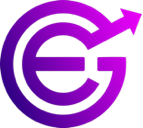
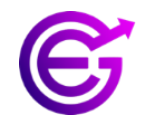
updated token images
fixed a few token images that were too large after swapping to Avatar images, and added EZI. Also added an error page for tokens or pairs with no volume.

diff --git a/pages/[symbol]/index.js b/pages/[symbol]/index.js
@@ -1,5 +1,5 @@
 import { useEffect, useState } from "react";
-import { Container, Grid } from "@nextui-org/react";
+import { Card, Container, Grid, Text } from "@nextui-org/react";
 
 import DexChart from "../../components/home/dex_chart";
 import BurnCard from "../../components/home/stats/burn";
@@ -16,6 +16,7 @@ import TokenList from "../../components/tokenlist";
 import Layout from "../../components/global/layout";
 import ErrorPage from 'next/error'
 import PageHeader from "../../components/global/header";
+import SvgIcon from "../../components/icons/SvgIcon";
 
 const tokens = require("../../tokens");
 
@@ -27,6 +28,7 @@ export default function TokenStats({ activeSymbol, err }) {
 
     const [stats, setStats] = useState(null);
     const [isLoading, setIsLoading] = useState(false);
+    const [hasData, setHasData] = useState(true);
 
     useEffect(async() => {
         await update();
@@ -34,6 +36,7 @@ export default function TokenStats({ activeSymbol, err }) {
 
     const update = async() => {
         setIsLoading(true);
+        
         let bnb      = Binance.getBnbPrice();
         let base_url = "https://api.dexscreener.io/latest/dex/tokens/";
         let request  = axios.get(base_url + tokens[activeSymbol].contract).then(res => res.data);
@@ -44,6 +47,9 @@ export default function TokenStats({ activeSymbol, err }) {
         let stats = await Promise.all([
             bnb, request, burned, supply, holders
         ]).then((values) => {
+            if (values[1].pairs.length == 0) {
+                setHasData(false);
+            }
             return {
                 bnb_value: values[0],
                 stats:  values[1].pairs[0],
@@ -71,34 +77,61 @@ export default function TokenStats({ activeSymbol, err }) {
                             isLoading={isLoading}
                             data={stats}/>
                     </Grid>
-                    <Grid xs={12} sm={4} md={4}>
-                        <PoolsCard 
-                            symbol={activeSymbol} 
-                            stats={stats}
-                            isLoading={isLoading}
-                            activeIndex={0}/>
-                    </Grid>
-                    <Grid xs={12} sm={4} md={4}>
-                        <PriceCard data={stats}/>
-                    </Grid>
-                    <Grid xs={12} sm={4} md={4}>
-                        <MarketCard data={stats}/>
-                    </Grid>
-                    <Grid xs={12} sm={4} md={4}>
-                        <BurnCard data={stats}/>
-                    </Grid>
-                    <Grid xs={12} sm={4} md={4}>
-                        <LiquidityCard data={stats}/>
-                    </Grid>
-                    <Grid xs={12} sm={4}>
-                        <VolumeCard data={stats}/>
-                    </Grid>
-                    <Grid xs={12}>
-                        <StrengthCard data={stats}/>
-                    </Grid>
-                    <Grid xs={12}>
-                        <DexChart data={stats}/>
-                    </Grid>
+                    { stats && stats.stats ? 
+                    <>
+                        <Grid xs={12} sm={4} md={4}>
+                            <PoolsCard 
+                                symbol={activeSymbol} 
+                                stats={stats}
+                                isLoading={isLoading}
+                                activeIndex={0}/>
+                        </Grid>
+                        <Grid xs={12} sm={4} md={4}>
+                            <PriceCard data={stats}/>
+                        </Grid>
+                        <Grid xs={12} sm={4} md={4}>
+                            <MarketCard data={stats}/>
+                        </Grid>
+                        <Grid xs={12} sm={4} md={4}>
+                            <BurnCard data={stats}/>
+                        </Grid>
+                        <Grid xs={12} sm={4} md={4}>
+                            <LiquidityCard data={stats}/>
+                        </Grid>
+                        <Grid xs={12} sm={4}>
+                            <VolumeCard data={stats}/>
+                        </Grid>
+                        <Grid xs={12}>
+                            <StrengthCard data={stats}/>
+                        </Grid>
+                        <Grid xs={12}>
+                            <DexChart data={stats}/>
+                        </Grid>
+                    </> : 
+                    <>
+                        <Grid xs={12}>
+                            <Card>
+                                <Card.Body>
+                                    <Grid.Container alignItems="center">
+                                        <Grid css={{ mr: 10 }}>
+                                            <Text color="error" css={{ lh: 1.2 }}>
+                                                <SvgIcon icon="alert-circle" size={48} stroke={1.5} />
+                                            </Text>
+                                        </Grid>
+                                        <Grid>
+                                            <Text color="error" css={{ lh: 1.2 }}>
+                                                There is no data for this token. This could imply that this token has no trading volume.
+                                                We advise you do your own research.<br/>Sorry for the inconvenience!
+                                            </Text>
+                                        </Grid>
+                                    </Grid.Container>
+                                    
+                                    
+                                </Card.Body>
+                            </Card>
+                        </Grid>
+                    </>
+                }
                 </Grid.Container>
             </Container>
         </Layout>

diff --git a/components/tokenlist.js b/components/tokenlist.js
@@ -1,4 +1,4 @@
-import { Button, Card, Grid, Text } from "@nextui-org/react";
+import { Avatar, Button, Card, Grid, Text } from "@nextui-org/react";
 import StatsLoader from "./home/stats/loader";
 import TokenButton from "./home/token_button";
 import SvgIcon from "./icons/SvgIcon";
@@ -12,7 +12,7 @@ export default function TokenList({ active, data, reloadHandler, isLoading }) {
             <Card.Body>
                 <Grid.Container alignItems="center" justify="space-between">
                     <Grid>
-                        <Button.Group size="md">
+                        <Avatar.Group>
                             {Object.keys(tokens).map((s, index) => {
                                 return(
                                     <TokenButton 
@@ -21,12 +21,12 @@ export default function TokenList({ active, data, reloadHandler, isLoading }) {
                                         active={active}  /> 
                                 )
                             })}
-                        </Button.Group>
+                            </Avatar.Group>
                     </Grid>
                     <Grid>
                         <Button 
                             rounded 
-                            color="gradient"
+                            color="success"
                             disabled={isLoading}
                             auto 
                             size={"sm"} 

diff --git a/components/nodata.js b/components/nodata.js
@@ -1,0 +1,32 @@
+import { Grid, Text, Link, Button } from "@nextui-org/react";
+import SvgIcon from "./icons/SvgIcon";
+
+
+export default function NoData() {
+
+    return(
+        <Grid.Container alignItems="center" justify="center" className="full-height">
+            <Grid css={{ textAlign: "center"}}>
+                <Text color="error">
+                    <SvgIcon icon="frown" stroke={2} size={86}/>
+                </Text>
+                
+                <Text h3 b>Error</Text>
+
+                <Text>There is no data for this token/pair. This could imply that this
+                    token has no trading volume.
+                </Text>
+
+                <Text css={{ mb: 50 }}>
+                    Please DYOR before making assumptions. Ty!
+                </Text>
+
+                <Link href="/">
+                    <Button color="error">
+                        Return Home
+                    </Button>
+                </Link>
+            </Grid>
+        </Grid.Container>
+    )
+}

diff --git a/components/home/stats/pools.js b/components/home/stats/pools.js
@@ -21,19 +21,23 @@ export default function PoolsCard({ symbol, stats, activeIndex, isLoading }) {
     const changeSelected = (index) => {
         closeHandler();
     }
+
+    if (!stats.stats) {
+        return null;
+    }
     
     return (<>
         <Card>
             <Card.Body css={{ pt: 18 }}>
                 <Grid.Container justify="space-between" alignItems="center">
                     <Grid>
-                        <Text size={12}>{stats.stats.dexId}</Text>
+                        <Text size={12}>{stats && stats.stats.dexId}</Text>
                         <Text size={18} b>{stats.stats.baseToken.symbol+" / "+stats.stats.quoteToken.symbol}</Text>
                     </Grid>
                     <Grid>
                         <Button 
                             size="sm" 
-                            color="gradient"
+                            color="primary"
                             rounded 
                             disabled={isLoading}
                             auto 

diff --git a/components/home/token_button.js b/components/home/token_button.js
@@ -1,14 +1,17 @@
-import { Button, Grid, Image } from "@nextui-org/react";
+import { Avatar, Button, Grid, Image, User } from "@nextui-org/react";
 import Link from "next/link";
 
-export default function TokenButton({ symbol }) {
+export default function TokenButton({ symbol, active }) {
 
     return(
         <Link href={"/"+symbol}>
-            <Button light css={{ px: 5 }}>
-                <Image src={`/img/tokens/${symbol.toLowerCase()}.png`}
-                    width={28} height={28}/>
-            </Button>
+            <Avatar src={`/img/tokens/${symbol.toLowerCase()}.png`}
+                size="md"
+                bordered 
+                stacked
+                icon
+                color={active == symbol ? "gradient" : ""} 
+                borderWeight={"bold"}/>
         </Link>
     )
 }

diff --git a/pages/_app.js b/pages/_app.js
@@ -26,7 +26,7 @@ const lightTheme = createTheme({
             warningLight: "#563A0C",
             warningShadow: "#f0ad4e",
 
-            gradient: "linear-gradient(310deg,#5e72e4,#825ee4)"
+            //gradient: "linear-gradient(310deg,#5e72e4,#825ee4)"
         },
         shadows: {
             md: "0 .125rem .25rem rgba(0,0,0,.075)"
@@ -59,7 +59,7 @@ const darkTheme = createTheme({
             warningLight: "#563A0C",
             warningShadow: "#f0ad4e",
 
-            gradient: "linear-gradient(310deg,#5e72e4,#825ee4)"
+            //gradient: "linear-gradient(310deg,#5e72e4,#825ee4)"
         },
 
         shadows: {

diff --git a/tokens.js b/tokens.js
@@ -61,5 +61,13 @@ module.exports = {
         burn_wallet: "0x0000000000000000000000000000000000000001",
         canBurn: true,
         primaryPool: "0xEB8d08030017BD1362a5414112CaCb094FA20cE1"
+    },
+    ezi: {
+        title: "EZillion",
+        contract: "0xCa0C1c12466A57b26850b05a0BA2Fb39F9763A0c",
+        decimals: 9,
+        burn_wallet: "0x000000000000000000000000000000000000dead",
+        canBurn: true,
+        primaryPool: "0x9cC45a53C0e7Ef1f07640569639ac4Cfe7117F75"
     }
 }

diff --git a/public/css/main.css b/public/css/main.css
@@ -132,3 +132,7 @@ a.token {
         display: none;
     }
 }
+
+.full-height {
+    height: 100vh;
+}
